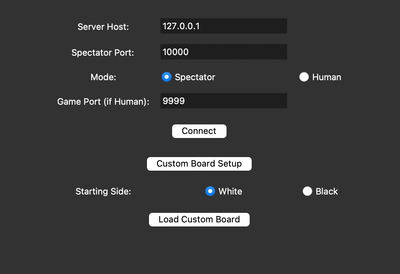
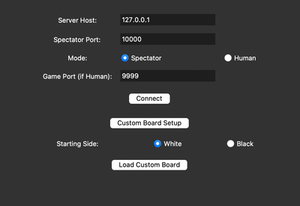
Update readme.md with spectator mode instructions and reorganize images
- Add detailed section explaining how to watch two AI agents play
- Move images to Readme_files directory
- Remove redundant image files from root directory
- Update image references in readme.md

diff --git a/readme.md b/readme.md
@@ -105,6 +105,34 @@ This makes it suitable for experimenting with basic search algorithms, heuristic
 
    ![image](Gui_StartGame.png)
 
+### 3.Watching Two AI Agents Face Each Other
+
+To observe a match between two AI agents without controlling any side yourself:
+
+1. **Start the server** as usual: Serer.exe **Or**
+
+   ```bash
+   python server.py
+
+   ```
+
+2. **Click on "Spectator" in the GUI** you will see the following window:
+
+   ![image](Spec_win.png)
+
+3. **Connect the first AI agent** using: Agent.exe **Or**
+   ```bash
+   python agent.py
+   ```
+4. **Connect the second AI agent** from another terminal: Agent.exe **Or**
+   ```bash
+   python agent.py
+   ```
+
+Now, you can watch the moves in real-time as each agent sends them to the server.
+
+Once both agents are connected, the server will assign them roles (White, Black), and they will play automatically. You can sit back and watch the entire game unfold.
+
 ## Interpreting the Agent's Output
 
 When **`agent.py`** is running, it prints logs similar to:
